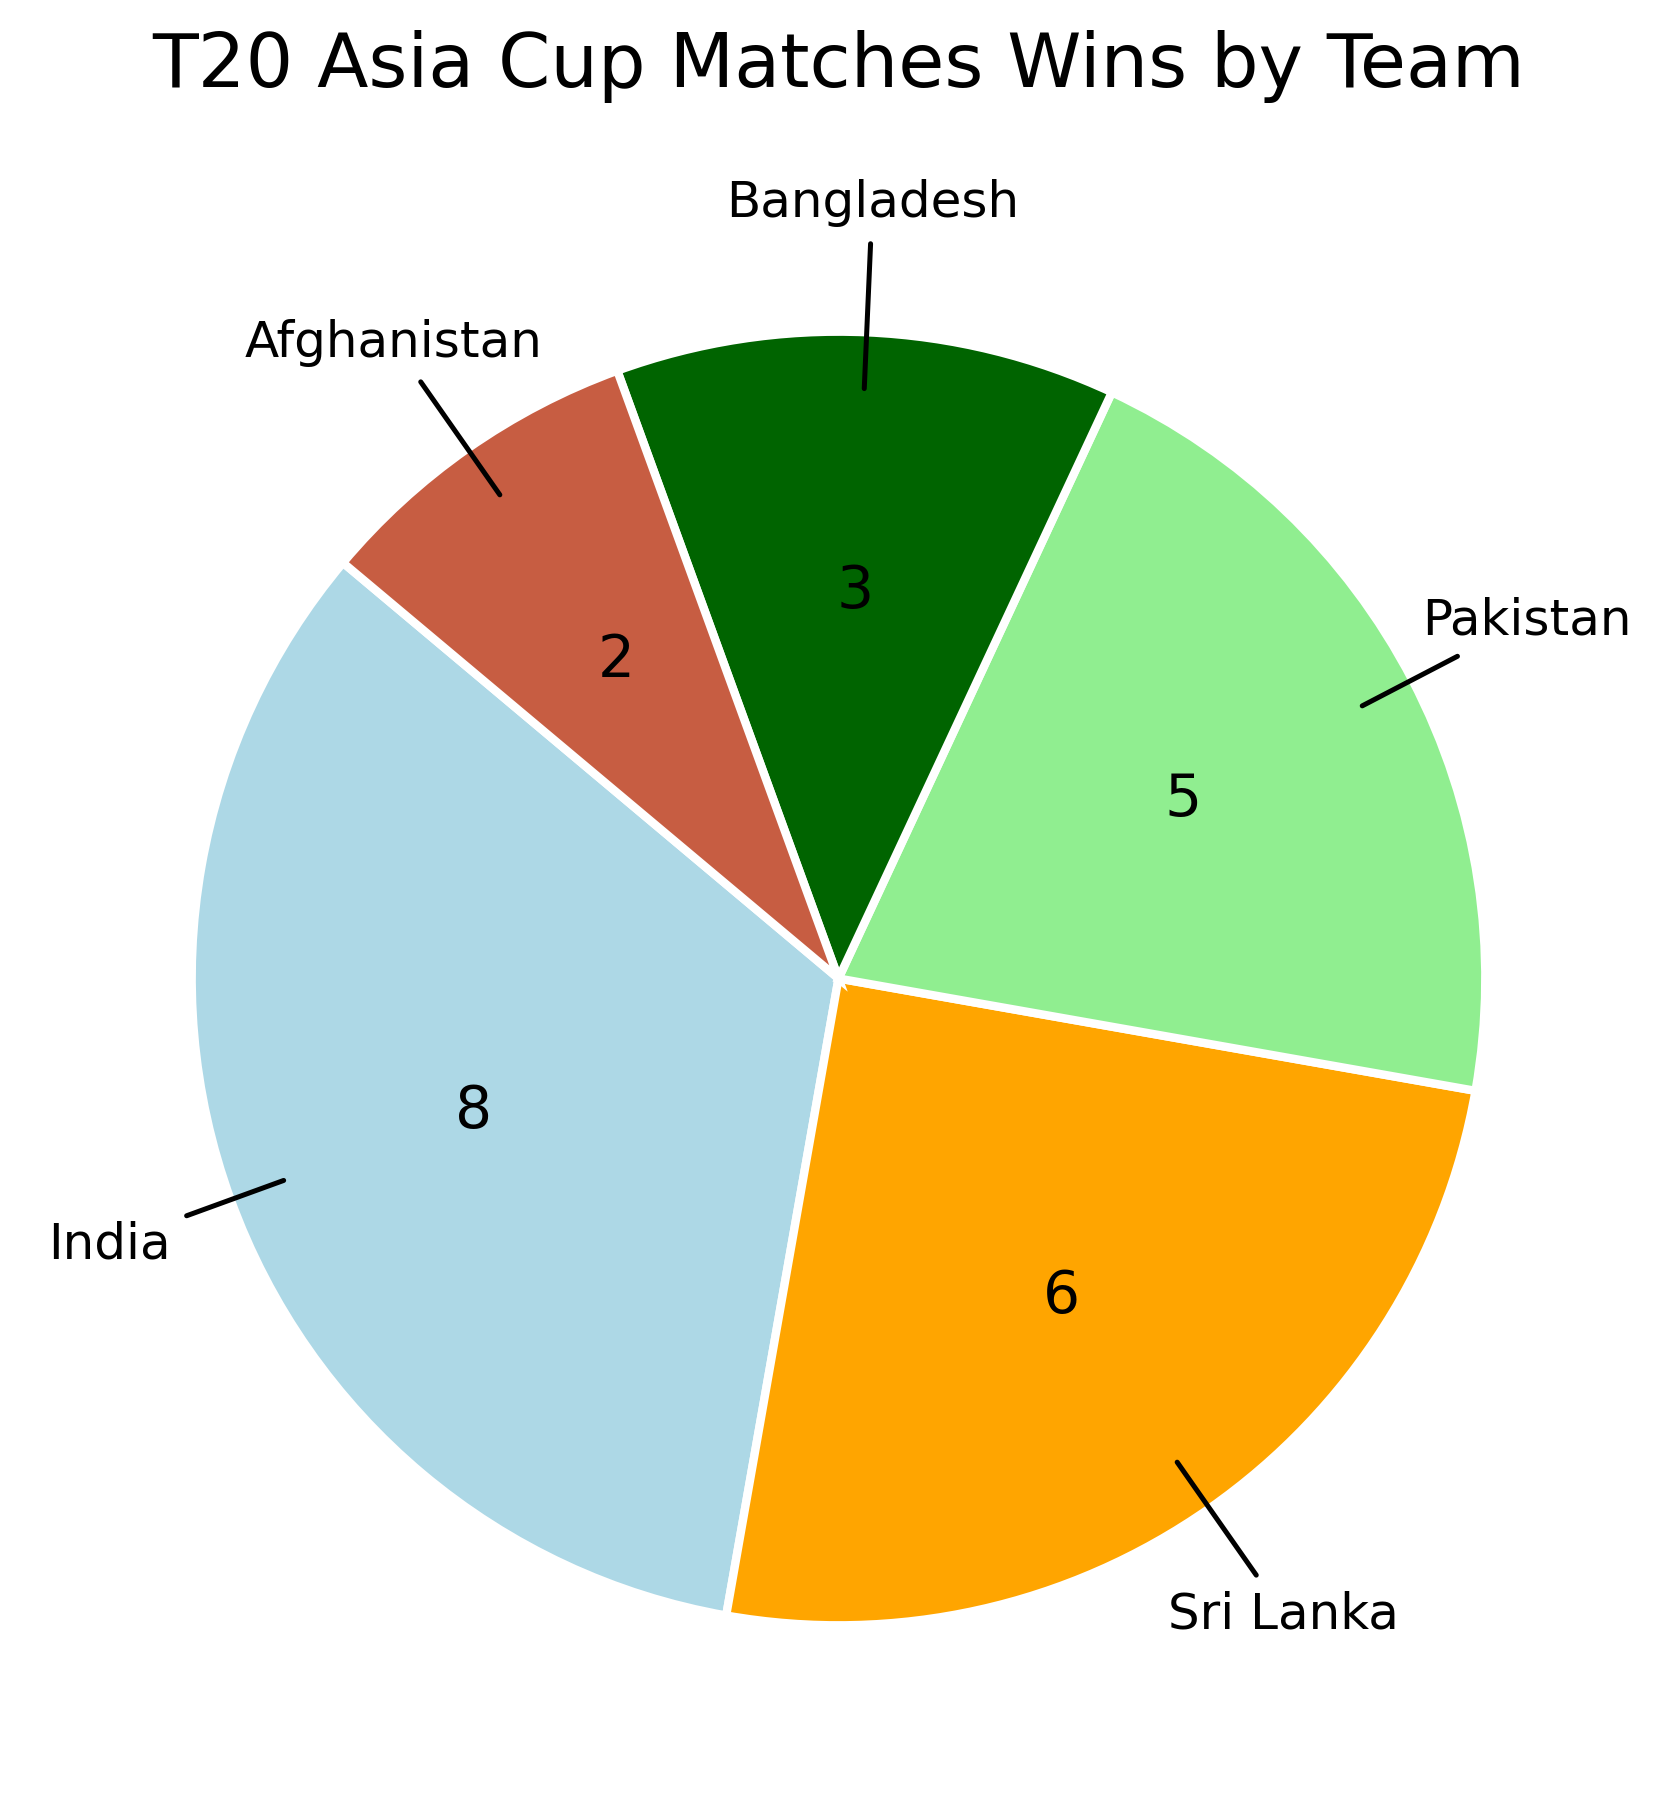
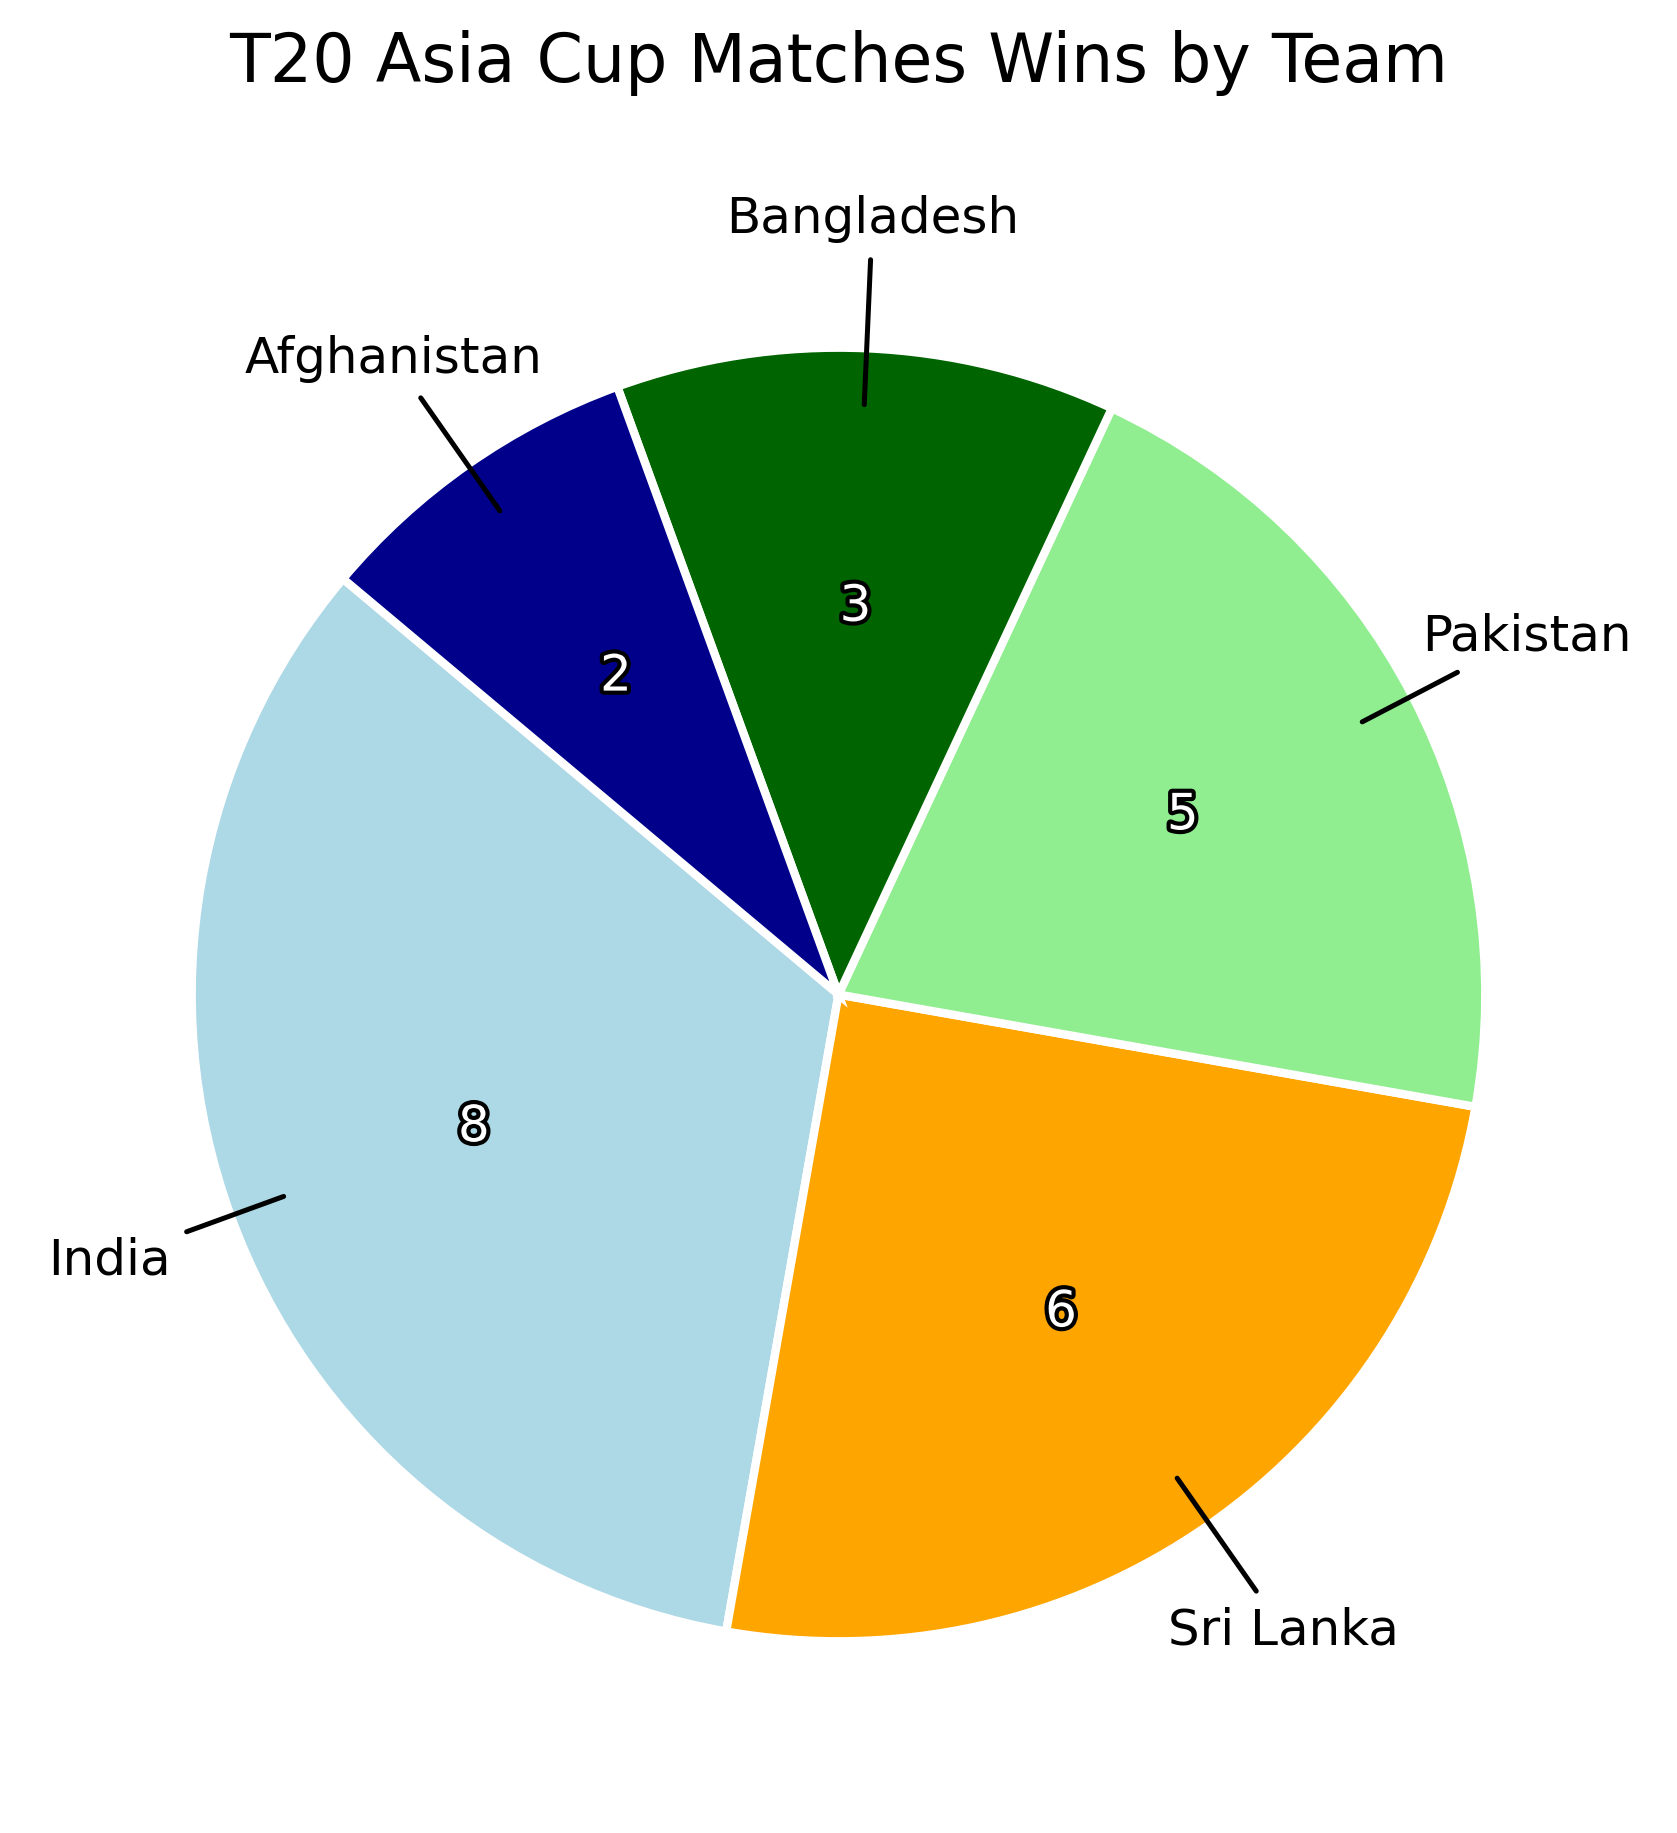
Formatted Data

diff --git a/winnerAnalysis.py b/winnerAnalysis.py
@@ -1,31 +1,81 @@
 from data_scraping import matches
 import matplotlib.pyplot as plt
 import numpy as np
+import matplotlib.patheffects as path_effects
 
-def makePieChart(winCounts):
-    team_colors = {
-        'Pakistan': '#90ee90',      # light green
-        'Bangladesh': '#006400',    # dark green
-        'Sri Lanka': '#ffa500',     # orange
-        'India': '#add8e6',         # light blue
-        'Afghanistan': "#c75d42",   # dark blue
-    }
-    colors = [team_colors.get(team, '#808080') for team in winCounts.index]  # gray if not found
+def makePieChart(data, labels=None, colors_map=None, title="Pie Chart", save_path=None, 
+                 number_type="count", figsize=(7,7), text_color="white"):
+    """
+    General Pie Chart maker with arrows pointing to labels.
+    
+    Parameters:
+    -----------
+    data : list/Series/array
+        Values for each category.
+    labels : list/Series (optional)
+        Category names (default = indices if Series).
+    colors_map : dict (optional)
+        Mapping of category -> color.
+    title : str
+        Title of the chart.
+    save_path : str (optional)
+        File path to save chart (e.g., "output.png").
+    number_type : str ("count" | "percent" | "both")
+        What to display inside wedges.
+    figsize : tuple
+        Figure size.
+    text_color : str
+        Color of text inside wedges.
+    """
 
-    plt.figure(figsize=(7,7))
+    # If pandas Series passed, extract
+    if hasattr(data, "values"):
+        values = data.values
+        if labels is None:
+            labels = data.index
+    else:
+        values = np.array(data)
+        if labels is None:
+            labels = [f"Label {i}" for i in range(len(values))]
+
+    # Assign colors
+    if colors_map:
+        colors = [colors_map.get(lbl, "#808080") for lbl in labels]
+    else:
+        colors = None  # matplotlib default
+
+    # Define number format
+    def format_autopct(pct):
+        total = sum(values)
+        count = int(round(pct*total/100))
+        if number_type == "count":
+            return str(count)
+        elif number_type == "percent":
+            return f"{pct:.1f}%"
+        elif number_type == "both":
+            return f"{count}\n({pct:.1f}%)"
+        return ""
+
+    # Plot
+    plt.figure(figsize=figsize)
     wedges, texts, autotexts = plt.pie(
-        winCounts, 
-        autopct=lambda pct: str(int(round(pct*sum(winCounts)/100))),
-        startangle=140, 
-        shadow=False, 
+        values,
+        autopct=format_autopct,
+        startangle=140,
         colors=colors,
-        wedgeprops={'edgecolor':'white', 'linewidth':2, 'linestyle':'-'},
-        textprops={'fontsize':14},
-        pctdistance=0.6,      # distance of number inside wedge
-        )
-    label_radius = 1.2
-    arrow_radius = 0.9  # arrow stops before number
+        wedgeprops={'edgecolor':'white', 'linewidth':2},
+        pctdistance=0.6,
+        textprops={'fontsize':12, 'color':text_color}
+    )
 
+    # White text with black border
+    for autotext in autotexts:
+        autotext.set_color(text_color)
+        autotext.set_path_effects([path_effects.withStroke(linewidth=2, foreground="black")])
+
+    # Arrows for labels
+    label_radius = 1.2
+    arrow_radius = 0.9
     for i, wedge in enumerate(wedges):
         angle = (wedge.theta2 + wedge.theta1)/2.0
         x_arrow = np.cos(np.deg2rad(angle)) * arrow_radius
@@ -33,18 +83,30 @@ def makePieChart(winCounts):
         x_text = np.cos(np.deg2rad(angle)) * label_radius
         y_text = np.sin(np.deg2rad(angle)) * label_radius
         plt.annotate(
-            winCounts.index[i],
+            labels[i],
             xy=(x_arrow, y_arrow),
             xytext=(x_text, y_text),
-            ha='center', va='center',
-            arrowprops=dict(arrowstyle='-', color='black', linewidth=1.2),
+            ha="center", va="center",
+            arrowprops=dict(arrowstyle="-", color="black", linewidth=1.2),
             fontsize=12
         )
 
-    plt.title("T20 Asia Cup Matches Wins by Team", fontsize=18, pad=20)
-    plt.savefig("Analysis/asia_cup_wins.png", dpi=300, bbox_inches="tight")
+    plt.title(title, fontsize=16, pad=25)
+
+    # Save or show
+    if save_path:
+        plt.savefig(save_path, dpi=300, bbox_inches="tight")
+    else:
+        plt.show()
 
 
 winCounts = matches[matches['Result']=="Win"]
 winCounts = winCounts['Team'].value_counts()
-makePieChart(winCounts)
+makePieChart(
+    data=winCounts, 
+    colors_map={'Pakistan':'#90ee90','Bangladesh':'#006400','Sri Lanka':'#ffa500','India':'#add8e6','Afghanistan':'#00008B'},
+    title="T20 Asia Cup Matches Wins by Team",
+    save_path="Analysis/asia_cup_wins.png",
+    number_type="count"
+)
+

diff --git a/data_scraping.py b/data_scraping.py
@@ -1,17 +1,68 @@
 import kagglehub
 import pandas as pd
+import os
+from openpyxl import load_workbook
+from openpyxl.utils import get_column_letter
+from openpyxl.styles import Font, PatternFill
+
+# Step 1: Download dataset
 path = kagglehub.dataset_download("hasibalmuzdadid/asia-cup-cricket-1984-to-2022")
 
+# Step 2: Load CSVs into DataFrames (these will be importable too)
 matches = pd.read_csv(f"{path}/asiacup.csv")
-matches = matches[matches["Format"]=="T20I"]
+matches = matches[matches["Format"] == "T20I"]
+
 champions = pd.read_csv(f"{path}/champion.csv")
-champions = champions[champions["Year"].isin([2016,2022])]
+champions = champions[champions["Year"].isin([2016, 2022])]
+
 batsmanDataT20 = pd.read_csv(f"{path}/batsman data t20i.csv")
 bowlerDataT20 = pd.read_csv(f"{path}/bowler data t20i.csv")
 wkpDataT20 = pd.read_csv(f"{path}/wicketkeeper data t20i.csv")
 
-for df in [matches, champions, batsmanDataT20, bowlerDataT20, wkpDataT20]:
-    df.reset_index(drop=True, inplace=True)
+# Step 3: Ensure Data folder exists
+os.makedirs("Data", exist_ok=True)
+excel_path = "Data/asia_cup_t20_analysis.xlsx"
+
+
+def format_excel(path: str):
+    """Apply header style, column auto-width, freeze header."""
+    wb = load_workbook(path)
+    for sheet in wb.sheetnames:
+        ws = wb[sheet]
+
+        # Bold headers + fill color
+        for cell in ws[1]:
+            cell.font = Font(bold=True, color="FFFFFF")
+            cell.fill = PatternFill(start_color="4F81BD", end_color="4F81BD", fill_type="solid")
+
+        # Auto column width
+        for col in ws.columns:
+            max_len = 0
+            col_letter = get_column_letter(col[0].column)
+            for cell in col:
+                try:
+                    max_len = max(max_len, len(str(cell.value)))
+                except:
+                    pass
+            ws.column_dimensions[col_letter].width = max_len + 2
+
+        # Freeze header row
+        ws.freeze_panes = "A2"
+
+    wb.save(path)
+
 
 if __name__ == "__main__":
-    print(batsmanDataT20.columns)
+    # Step 4: Write to Excel
+    with pd.ExcelWriter(excel_path, engine="openpyxl") as writer:
+        matches.to_excel(writer, sheet_name="Matches", index=False)
+        champions.to_excel(writer, sheet_name="Champions", index=False)
+        batsmanDataT20.to_excel(writer, sheet_name="Batsman", index=False)
+        bowlerDataT20.to_excel(writer, sheet_name="Bowler", index=False)
+        wkpDataT20.to_excel(writer, sheet_name="Wicketkeeper", index=False)
+
+    # Step 5: Apply formatting
+    format_excel(excel_path)
+
+    print("✅ Excel file created with formatting!")
+    print(matches.head())

diff --git a/battingStats.py b/battingStats.py
@@ -1,0 +1,1 @@
+from data_scraping import batsmanDataT20
